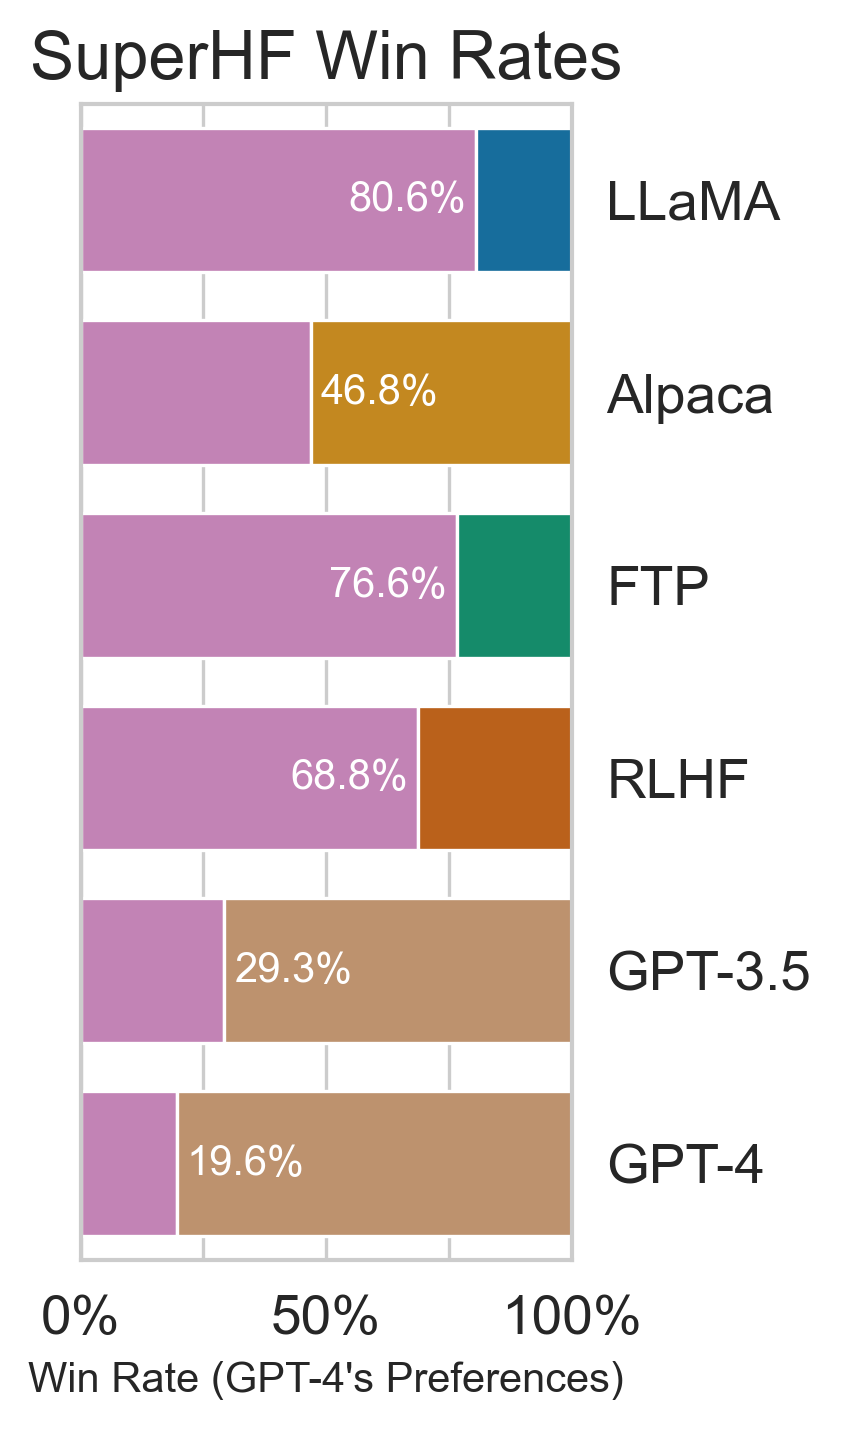
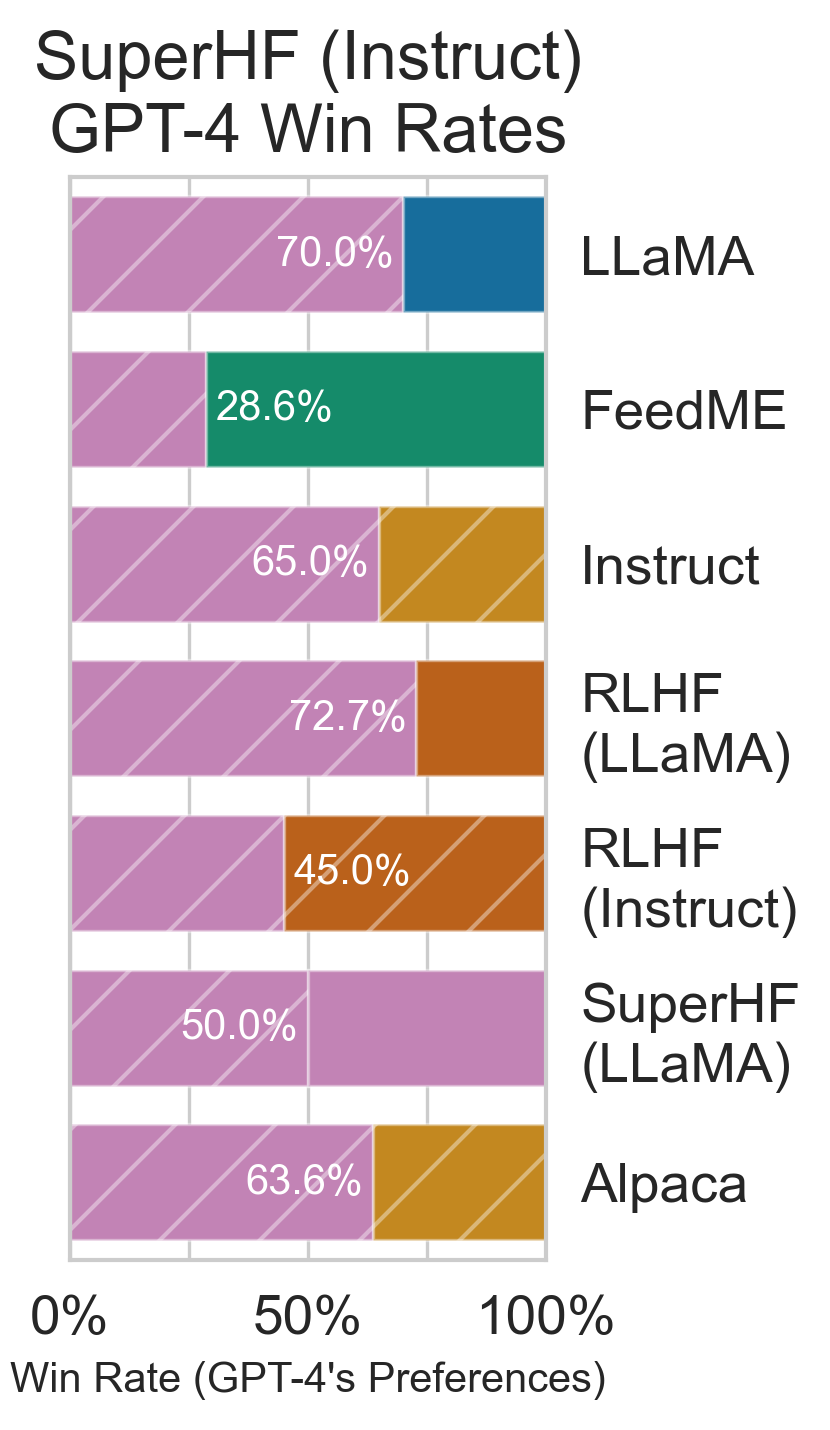
Win rates plot

diff --git a/charts/win_rates_plot.py b/charts/win_rates_plot.py
@@ -8,10 +8,11 @@ from chart_utils import (
     initialize_plot,
     save_plot,
     model_type_to_palette_color,
-    QUALITATIVE_MODEL_ORDER,
+    model_type_to_hatch,
+    spaces_to_newlines,
 )
 
-QUALITATIVE_MODEL_ORDER = QUALITATIVE_MODEL_ORDER[:-2]
+# QUALITATIVE_MODEL_ORDER = QUALITATIVE_MODEL_ORDER[:-2]
 
 OUTPUT_FILE = "./charts/models/win_rates.png"
 
@@ -22,17 +23,24 @@ def main() -> None:
     initialize_plot()
     plt.rcParams["figure.figsize"] = (3, 5)
 
-    # Data
-    other_models = [
-        "LLaMA",
-        "Alpaca",
-        "FTP",
-        "RLHF",
-        "GPT-3.5",
-        "GPT-4",
+    # Data from win_rates_table.py
+    other_models_to_shf_win_rates = {
+        "LLaMA": 0.7,
+        "FeedME": 0.2857142857142857,
+        "Instruct": 0.65,
+        "RLHF (LLaMA)": 0.7272727272727273,
+        "RLHF (Instruct)": 0.45,
+        "SuperHF (LLaMA)": 0.5,
+        "Alpaca": 0.6363636363636364,
+    }
+    other_models = spaces_to_newlines(list(other_models_to_shf_win_rates.keys()))
+    superhf_win_rates = [
+        rate * 100.0 for rate in other_models_to_shf_win_rates.values()
     ]
-    superhf_win_rates = [80.56, 46.81, 76.6, 68.75, 29.27, 19.57]
     other_win_rates = [100.0 - x for x in superhf_win_rates]
+
+    # Hatch color
+    hatch_color = "#ffffff66"
 
     # Create a stacked bar chart
     plot = sns.barplot(
@@ -40,15 +48,21 @@ def main() -> None:
         x=superhf_win_rates,
         color=model_type_to_palette_color("superhf"),
         width=0.75,
+        hatch="/",
+        edgecolor=hatch_color,
     )
 
     palette = [model_type_to_palette_color(model_name) for model_name in other_models]
+    hatch = [model_type_to_hatch(model_name, 1) for model_name in other_models]
+    # Add new lines to labels
     sns.barplot(
         y=other_models,
         x=other_win_rates,
         left=superhf_win_rates,
         palette=palette,
         width=0.75,
+        hatch=hatch,
+        edgecolor=hatch_color,
         # color=model_type_to_palette_color("other"),
     )
 
@@ -68,7 +82,7 @@ def main() -> None:
         )
 
     plot.set_xlabel("Win Rate (GPT-4's Preferences)", fontsize=10)
-    plot.set_title("SuperHF Win Rates")
+    plot.set_title("SuperHF (Instruct)\nGPT-4 Win Rates")
 
     # x-ticks at every 25% and label as percentage
     plot.set_xticks([0, 25, 50, 75, 100])

diff --git a/charts/qualitative/win_rates_table.tex b/charts/qualitative/win_rates_table.tex
@@ -1,19 +1,21 @@
 \begin{tabular}{|c|c|c|c|c|c|c|c|}
 \hline
- & LLaMA & Alpaca & SFT & RLHF & SuperHF & GPT-3.5 & GPT-4 \\
+ & LLaMA & FeedME & Instruct & RLHF (LLaMA) & RLHF (Instruct) & SuperHF (LLaMA) & SuperHF (Instruct) & Alpaca \\
 \hline
-LLaMA & - & 24.59\% & 35.42\% & 19.05\% & 19.44\% & 1.72\% & 2.08\% \\
+LLaMA & - & \textbf{61.11\%} & 45.0\% & \textbf{68.42\%} & 43.48\% & 27.78\% & 30.0\% & \textbf{73.08\%} \\
 \hline
-Alpaca & \textbf{75.41\%} & - & \textbf{65.38\%} & \textbf{56.25\%} & \textbf{53.19\%} & 31.91\% & 24.53\% \\
+FeedME & 38.89\% & - & 36.36\% & \textbf{59.26\%} & \textbf{71.43\%} & 50.0\% & \textbf{71.43\%} & 42.11\% \\
 \hline
-SFT & \textbf{64.58\%} & 34.62\% & - & 26.0\% & 23.4\% & 7.27\% & 3.39\% \\
+Instruct & \textbf{55.0\%} & \textbf{63.64\%} & - & 42.86\% & \textbf{52.38\%} & \textbf{64.29\%} & 35.0\% & 47.83\% \\
 \hline
-RLHF & \textbf{80.95\%} & 43.75\% & \textbf{74.0\%} & - & 31.25\% & 17.78\% & 10.64\% \\
+RLHF (LLaMA) & 31.58\% & 40.74\% & \textbf{57.14\%} & - & \textbf{52.0\%} & \textbf{68.75\%} & 27.27\% & 36.36\% \\
 \hline
-SuperHF & \textbf{80.56\%} & 46.81\% & \textbf{76.6\%} & \textbf{68.75\%} & - & 29.27\% & 19.57\% \\
+RLHF (Instruct) & \textbf{56.52\%} & 28.57\% & 47.62\% & 48.0\% & - & \textbf{63.16\%} & \textbf{55.0\%} & 23.81\% \\
 \hline
-GPT-3.5 & \textbf{98.28\%} & \textbf{68.09\%} & \textbf{92.73\%} & \textbf{82.22\%} & \textbf{70.73\%} & - & 42.86\% \\
+SuperHF (LLaMA) & \textbf{72.22\%} & 50.0\% & 35.71\% & 31.25\% & 36.84\% & - & 50.0\% & 34.78\% \\
 \hline
-GPT-4 & \textbf{97.92\%} & \textbf{75.47\%} & \textbf{96.61\%} & \textbf{89.36\%} & \textbf{80.43\%} & \textbf{57.14\%} & - \\
+SuperHF (Instruct) & \textbf{70.0\%} & 28.57\% & \textbf{65.0\%} & \textbf{72.73\%} & 45.0\% & 50.0\% & - & \textbf{63.64\%} \\
+\hline
+Alpaca & 26.92\% & \textbf{57.89\%} & \textbf{52.17\%} & \textbf{63.64\%} & \textbf{76.19\%} & \textbf{65.22\%} & 36.36\% & - \\
 \hline
 \end{tabular}

diff --git a/charts/win_rates_table.py b/charts/win_rates_table.py
@@ -5,6 +5,7 @@ from typing import Any
 
 from chart_utils import create_file_dir_if_not_exists, MODEL_NAME_MAPPING
 
+INPUT_FILE = "./eval_results/gpt4_qualitative/new_models/win_rates.csv"
 OUTPUT_PATH = "./charts/qualitative/win_rates_table.tex"
 
 
@@ -13,9 +14,7 @@ def main() -> None:
 
     # Read the CSV file
     win_rates = {}
-    with open(
-        "eval_results/gpt4_qualitative/win_rates.csv", "r", encoding="utf-8"
-    ) as csvfile:
+    with open(INPUT_FILE, "r", encoding="utf-8") as csvfile:
         reader = csv.reader(csvfile)
         next(reader)  # Skip the header
         for row in reader:
@@ -24,9 +23,12 @@ def main() -> None:
                 win_rate
             )
 
-    # Create a 7x7 matrix
+    # Create an NxN matrix
     model_names = list(MODEL_NAME_MAPPING.values())
-    matrix: list[list[Any]] = [[0 for _ in range(7)] for _ in range(7)]
+    num_models = len(model_names)
+    matrix: list[list[Any]] = [
+        [0 for _ in range(num_models)] for _ in range(num_models)
+    ]
     for i, model_a in enumerate(model_names):
         for j, model_b in enumerate(model_names):
             if model_a == model_b:
@@ -36,6 +38,7 @@ def main() -> None:
                     (model_a, model_b), win_rates.get((model_b, model_a), "0")
                 )
                 matrix[i][j] = rf"{round(float(win_rate) * 100, 2)}\%"
+                print(f"'{model_a}' vs '{model_b}': {win_rate},")
 
     # Write the matrix into a LaTeX file
     create_file_dir_if_not_exists(OUTPUT_PATH)

diff --git a/charts/chart_utils.py b/charts/chart_utils.py
@@ -36,6 +36,14 @@ QUALITATIVE_MODEL_ORDER = [
     "Alpaca",
 ]
 
+
+def spaces_to_newlines(model_name_list: list[str]) -> list[str]:
+    """Replace spaces with newlines in a list of model names."""
+    return [model_name.replace(" ", "\n") for model_name in model_name_list]
+
+
+QUALITATIVE_MODEL_ORDER_MULTILINE = spaces_to_newlines(QUALITATIVE_MODEL_ORDER)
+
 LLAMA_TEST_REWARD = -0.51  # TODO get accurate reward
 ALPACA_TEST_REWARD = -0.01  # TODO redo with new data
 
@@ -175,10 +183,10 @@ def model_type_to_palette_color(model_type: str) -> Any:
     return _get_color_from_palette(all_model_types.index(model_type))
 
 
-def model_type_to_hatch(model_type: str) -> Any:
+def model_type_to_hatch(model_type: str, num_hatches: int = 3) -> Any:
     """Standardize our hatching"""
     if "Instruct" in model_type or "Alpaca" in model_type:
-        return "///"
+        return "/" * num_hatches
     return ""
 
 

diff --git a/charts/elo_scores.py b/charts/elo_scores.py
@@ -14,6 +14,7 @@ from chart_utils import (
     model_type_to_hatch,
     MODEL_NAME_MAPPING,
     QUALITATIVE_MODEL_ORDER,
+    QUALITATIVE_MODEL_ORDER_MULTILINE,
 )
 
 # QUALITATIVE_MODEL_ORDER = QUALITATIVE_MODEL_ORDER[:-2]
@@ -64,8 +65,9 @@ def main() -> None:
     )
 
     # Add new line to bar x-axis labels
-    x_labels = [model_name.replace(" ", "\n") for model_name in QUALITATIVE_MODEL_ORDER]
-    plt.xticks(range(len(x_labels)), x_labels)
+    plt.xticks(
+        range(len(QUALITATIVE_MODEL_ORDER_MULTILINE)), QUALITATIVE_MODEL_ORDER_MULTILINE
+    )
 
     # Horizontal line at 1500 for starting Elo
     plt.axhline(y=1500, color="black", linestyle="--", label="Initial Elo")
